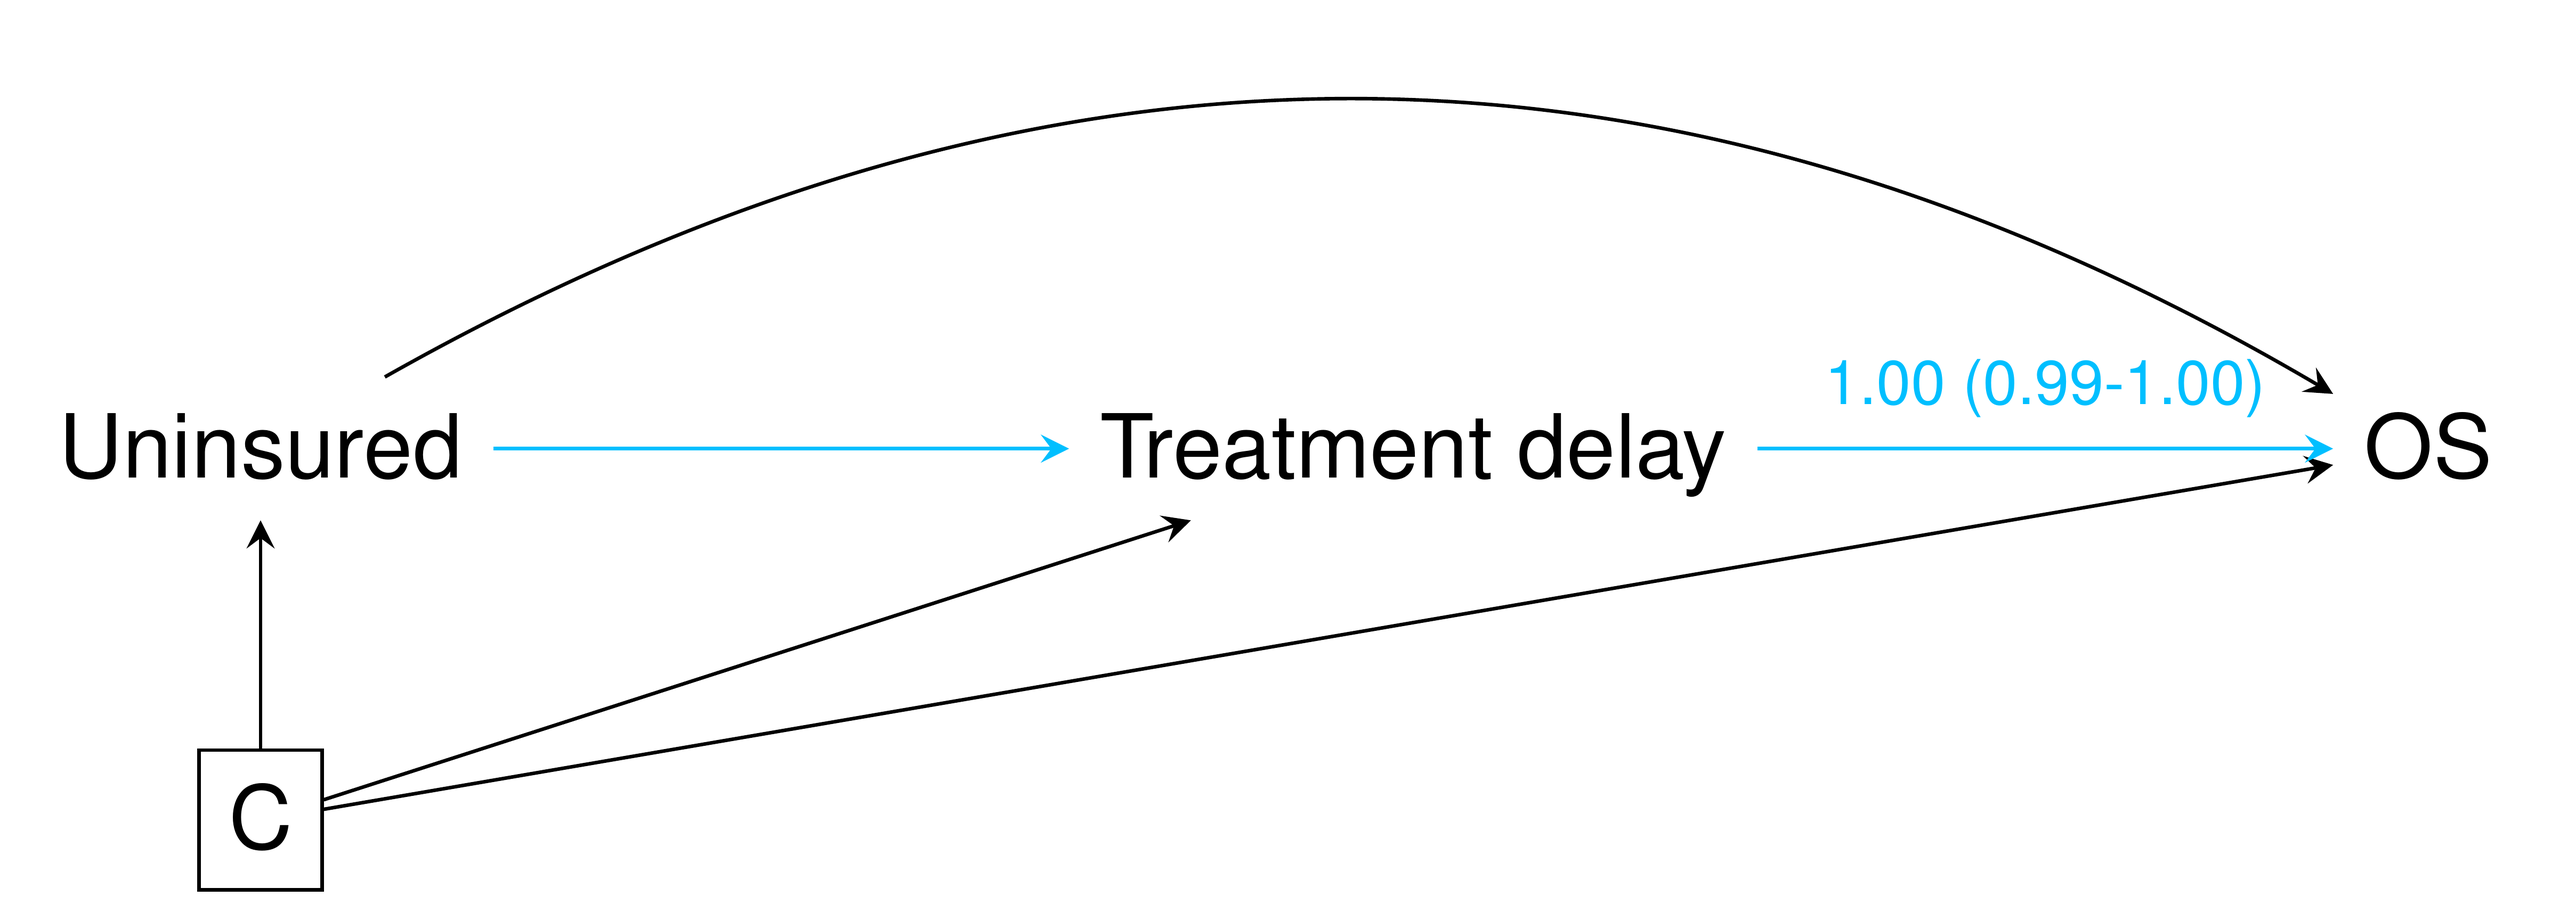
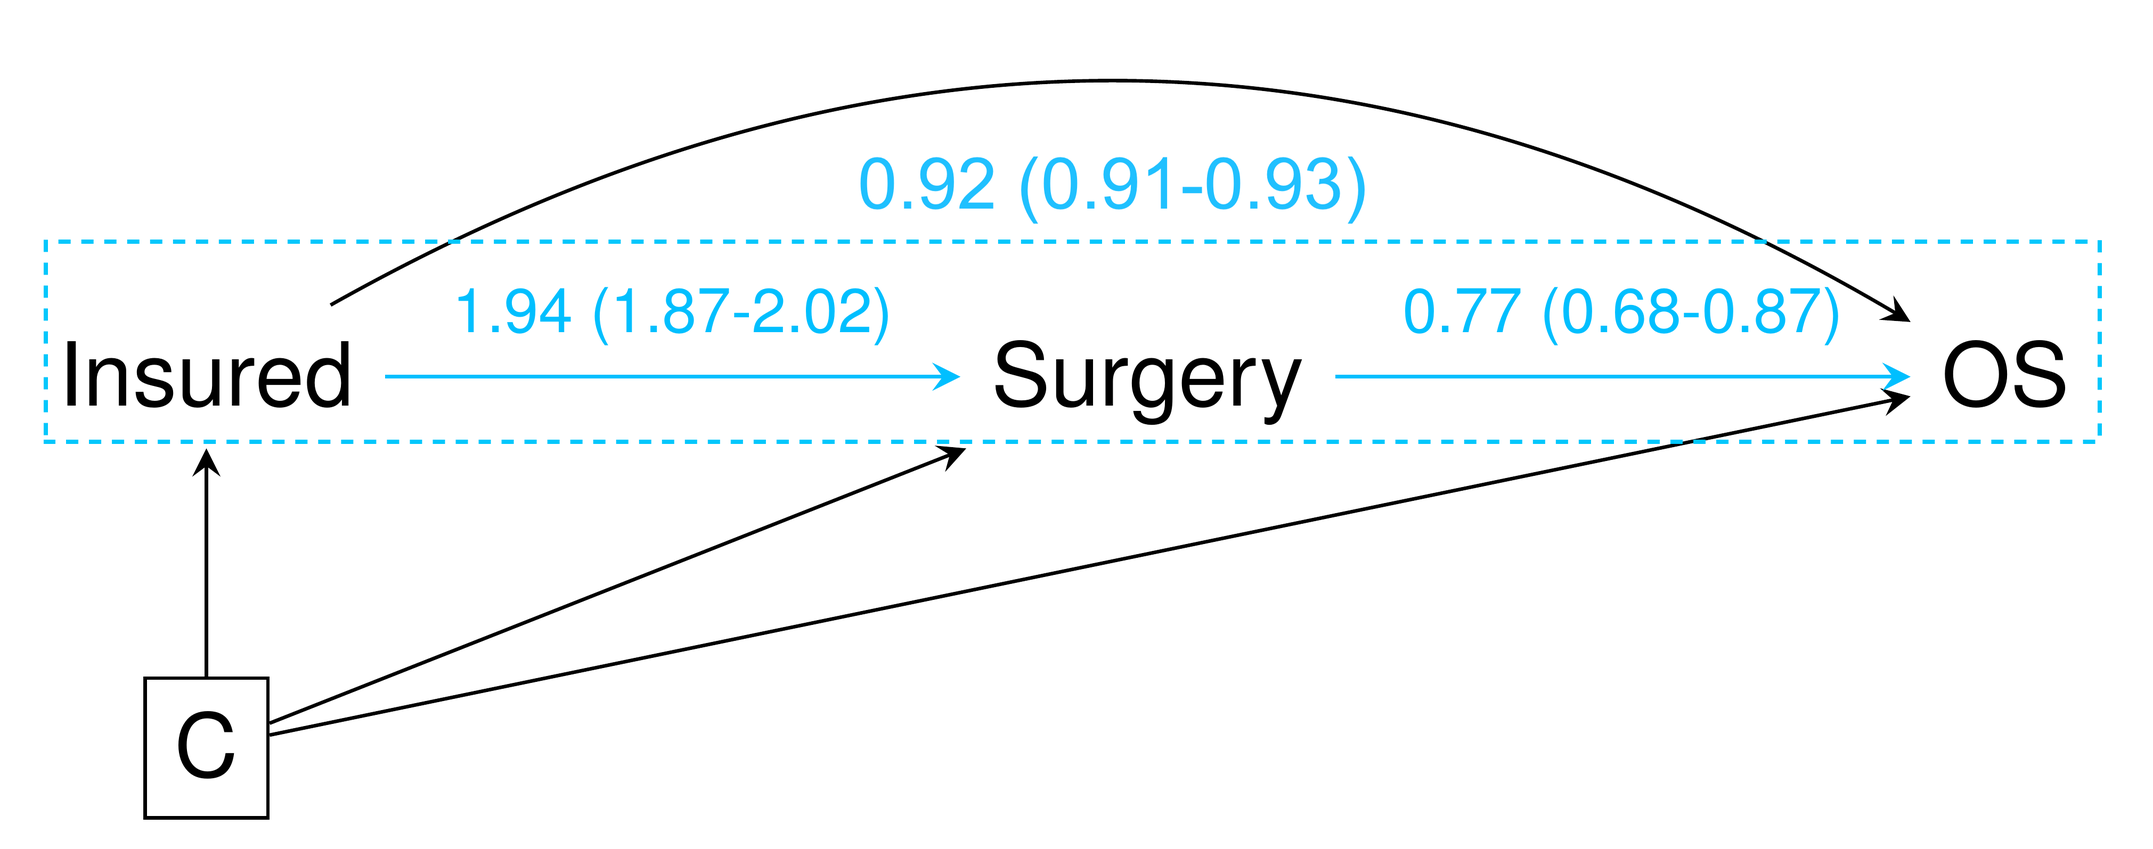
new prostate example

diff --git a/index.html b/index.html
@@ -85,6 +85,11 @@ Criteria to be a mediator:
 + Changing the exposure change the outcome .accent-blue[ ( 😬 unless the indirect and direct effects cancel out) ]
 + After controlling for the mediator, the previously significant relationship between the exposure and the outcome is no longer significant .accent-blue[ ( 😬 unless it partial mediaton) ]
 
+.w-75.h-center[
+&lt;img src="figures/basic_example_dag.png"&gt;
+]
+
+
 ---
 
 background-image: url(figures/bk_dag.png)
@@ -227,13 +232,12 @@ Default arguments
     
 ---
 
-## Is the effect of being uninsured on overall survival mediated through treatment delays in prostate cancer ...
+## Is the effect of being insured on overall survival mediated through surgery in prostate cancer ...
 
 Based on &gt; 500,000 prostate cancer cases in the National Cancer Data Base
-+ A greater proportion of those who are uninsured experience a 6 month treatment delay than those who are insured
-+ Being uninsured is associated with worse outcomes in prostate cancer
-+ A 6 month treatment delay is associated with worse overall survival in prostate cancer than those who receive more timely treatment
-
++ Those who are insured are more likely to receive surgery than those who are uninsured
++ Those who are insured have better overall survival than those who are uninsured
++ Those who receive surgery have better overall survival than those who do not receive surgery
 
 .w-75.h-center[
 ![](figures/results_dag.png)
@@ -241,7 +245,7 @@ Based on &gt; 500,000 prostate cancer cases in the National Cancer Data Base
 
 ---
 
-## Is the effect of being uninsured on overall survival mediated through treatment delays in prostate cancer ...
+## Is the effect of being insured on overall survival mediated through surgery in prostate cancer ...
 
 
 ```r
@@ -253,21 +257,21 @@ dat %&gt;%
   # do some data cleaning here ...
   mediator(data = dat_clean,
                    out.model = coxph(Surv(DX_LASTCONTACT_DEATH_MONTHS, death) ~
-                                       uninsured + delay_6months + 
+                                       insured + surgery + 
                                        PSA + cGleasonSum + AGE + racev2 + 
-                                       (uninsured*delay_6months), 
+                                       (insured*surgery), 
                                      data = dat_clean),
-                   med.model = glm(delay_6months ~ uninsured +
+                   med.model = glm(surgery ~ insured +
                                      PSA + cGleasonSum + AGE + racev2, 
                                    data = dat_clean, family = "binomial"),
-                   treat = "uninsured")
+                   treat = "insured")
 ```
 
 .footnote.pull-left[Full code available at: https://github.com/jhcreed/bsp2020-mediator]
 
 ---
 
-## Is the effect of being uninsured on overall survival mediated through treatment delays in prostate cancer ...
+## Is the effect of being insured on overall survival mediated through surgery in prostate cancer ...
 
 &lt;table class="table" style="width: auto !important; margin-left: auto; margin-right: auto;"&gt;
  &lt;thead&gt;
@@ -281,31 +285,31 @@ dat %&gt;%
 &lt;tbody&gt;
   &lt;tr&gt;
    &lt;td style="text-align:left;font-weight: bold;background-color: white !important;text-align: center;"&gt; CDE &lt;/td&gt;
-   &lt;td style="text-align:right;font-weight: bold;background-color: white !important;text-align: center;"&gt; 1.95312 &lt;/td&gt;
-   &lt;td style="text-align:left;font-weight: bold;background-color: white !important;text-align: center;"&gt; 1.8208 &lt;/td&gt;
-   &lt;td style="text-align:left;font-weight: bold;background-color: white !important;text-align: center;"&gt; 2.09506 &lt;/td&gt;
+   &lt;td style="text-align:right;font-weight: bold;background-color: white !important;text-align: center;"&gt; 0.61238 &lt;/td&gt;
+   &lt;td style="text-align:left;font-weight: bold;background-color: white !important;text-align: center;"&gt; 0.56128 &lt;/td&gt;
+   &lt;td style="text-align:left;font-weight: bold;background-color: white !important;text-align: center;"&gt; 0.66814 &lt;/td&gt;
   &lt;/tr&gt;
   &lt;tr&gt;
    &lt;td style="text-align:left;font-weight: bold;background-color: white !important;text-align: center;"&gt; NDE &lt;/td&gt;
-   &lt;td style="text-align:right;font-weight: bold;background-color: white !important;text-align: center;"&gt; 1.93443 &lt;/td&gt;
-   &lt;td style="text-align:left;font-weight: bold;background-color: white !important;text-align: center;"&gt; 1.80648 &lt;/td&gt;
-   &lt;td style="text-align:left;font-weight: bold;background-color: white !important;text-align: center;"&gt; 2.07145 &lt;/td&gt;
+   &lt;td style="text-align:right;font-weight: bold;background-color: white !important;text-align: center;"&gt; 0.53448 &lt;/td&gt;
+   &lt;td style="text-align:left;font-weight: bold;background-color: white !important;text-align: center;"&gt; 0.49786 &lt;/td&gt;
+   &lt;td style="text-align:left;font-weight: bold;background-color: white !important;text-align: center;"&gt; 0.57378 &lt;/td&gt;
   &lt;/tr&gt;
   &lt;tr&gt;
    &lt;td style="text-align:left;font-weight: bold;background-color: white !important;text-align: center;"&gt; NIE &lt;/td&gt;
-   &lt;td style="text-align:right;font-weight: bold;background-color: white !important;text-align: center;"&gt; 0.99534 &lt;/td&gt;
-   &lt;td style="text-align:left;font-weight: bold;background-color: white !important;text-align: center;"&gt; 0.9891 &lt;/td&gt;
-   &lt;td style="text-align:left;font-weight: bold;background-color: white !important;text-align: center;"&gt; 1.00163 &lt;/td&gt;
+   &lt;td style="text-align:right;font-weight: bold;background-color: white !important;text-align: center;"&gt; 0.92258 &lt;/td&gt;
+   &lt;td style="text-align:left;font-weight: bold;background-color: white !important;text-align: center;"&gt; 0.91319 &lt;/td&gt;
+   &lt;td style="text-align:left;font-weight: bold;background-color: white !important;text-align: center;"&gt; 0.93207 &lt;/td&gt;
   &lt;/tr&gt;
   &lt;tr&gt;
    &lt;td style="text-align:left;font-weight: bold;background-color: white !important;text-align: center;"&gt; Total Effect &lt;/td&gt;
-   &lt;td style="text-align:right;font-weight: bold;background-color: white !important;text-align: center;"&gt; 1.92542 &lt;/td&gt;
-   &lt;td style="text-align:left;font-weight: bold;background-color: white !important;text-align: center;"&gt; 1.79839 &lt;/td&gt;
-   &lt;td style="text-align:left;font-weight: bold;background-color: white !important;text-align: center;"&gt; 2.06143 &lt;/td&gt;
+   &lt;td style="text-align:right;font-weight: bold;background-color: white !important;text-align: center;"&gt; 0.49310 &lt;/td&gt;
+   &lt;td style="text-align:left;font-weight: bold;background-color: white !important;text-align: center;"&gt; 0.45907 &lt;/td&gt;
+   &lt;td style="text-align:left;font-weight: bold;background-color: white !important;text-align: center;"&gt; 0.52965 &lt;/td&gt;
   &lt;/tr&gt;
   &lt;tr&gt;
    &lt;td style="text-align:left;font-weight: bold;background-color: white !important;text-align: center;"&gt; Proportion Mediated &lt;/td&gt;
-   &lt;td style="text-align:right;font-weight: bold;background-color: white !important;text-align: center;"&gt; -0.00973 &lt;/td&gt;
+   &lt;td style="text-align:right;font-weight: bold;background-color: white !important;text-align: center;"&gt; 0.08163 &lt;/td&gt;
    &lt;td style="text-align:left;font-weight: bold;background-color: white !important;text-align: center;"&gt;  &lt;/td&gt;
    &lt;td style="text-align:left;font-weight: bold;background-color: white !important;text-align: center;"&gt;  &lt;/td&gt;
   &lt;/tr&gt;
@@ -315,31 +319,29 @@ dat %&gt;%
 &lt;br&gt;
 
 👉 The number of potential estimates for the CDE is equal to the number of levels that the mediator can take  
-+ CDE of being uninsured compared to insured when forcing treatment to occurr within 6 months is 1.95
-+ CDE of being uninsured compared to insured when forcing treatment to occurr after 6 months is 1.57
++ CDE of being insured compared to uninsured when forcing surgery not to occur is 0.47 (0.42-0.52)
++ CDE of being insured compared to uninsured when forcing surgery to occur is 0.61 (0.56-0.67)
 
 .footnote.pull-left[Full code available at: https://github.com/jhcreed/bsp2020-mediator]
 
 ---
 
-## Is the effect of being uninsured on overall survival mediated through treatment delays in prostate cancer ...
+## Is the effect of being insured on overall survival mediated through surgery in prostate cancer ...
 
-NDE:  the effect of the exposure (uninsured) on the outcome (overall survival) if the pathway from the exposure to the mediator (delays in treatment) was removed
-+ HR for beinf uninsured compared to insured, when each individuals level of delay is kept at the level it would take in the absence of insurance status, is 1.93 (1.81-2.07)
+NDE:  the effect of the exposure (insured) on the outcome (overall survival) if the pathway from the exposure to the mediator (surgery) was removed
++ HR for being insured compared to uninsured, when each individuals surgical status is kept at the level it would take in the absence of insurance status, is 0.53 (0.50-0.57)
 
-&lt;br&gt;
-
-.w-75.h-center[
+.w-70.h-center[
 ![](figures/results_dag_nde.png)
 ]
 
 
 ---
 
-## Is the effect of being uninsured on overall survival mediated through treatment delays in prostate cancer ...
+## Is the effect of being insured on overall survival mediated through surgery in prostate cancer ...
 
-NIE: the effect of the exposure (uninsured) that operates by changing the mediator (treatment delays)
-+ HR for being uninsured, if TTT was changed from the level it would take if insurance status was insured to the level if insurance status was uninsured, is 1.00 (0.99-1.00)
+NIE: the effect of the exposure (insured) that operates by changing the mediator (surgery)
++ HR for being insured, if surgical status was changed from the level it would take if insurance status was uninsured to the level if insurance status was insured, is 0.92 (0.91-0.93)
 
 
 &lt;br&gt;
@@ -351,10 +353,10 @@ NIE: the effect of the exposure (uninsured) that operates by changing the mediat
 
 ---
 
-## Is the effect of being uninsured on overall survival mediated through treatment delays in prostate cancer ...
+## Is the effect of being insured on overall survival mediated through surgery in prostate cancer ...
 
-TE:  the overall effect of the exposure (uninsured) on the outcome (overall survival)
-+ HR for uninsured compared to insured, overall, is 1.93 (1.80-2.06)
+TE:  the overall effect of the exposure (insured) on the outcome (overall survival)
++ HR for insured compared to uninsured, overall, is 0.49 (0.46-0.53)
 
 &lt;br&gt;
 
@@ -467,6 +469,9 @@ R packages are more than just a bundle of code : tests, data, documentation, ...
 }
 .w-75 {
   width: 75%;
+}
+.w-70 {
+  width: 70%;
 }
 .w-115 {
   width: 115%;
